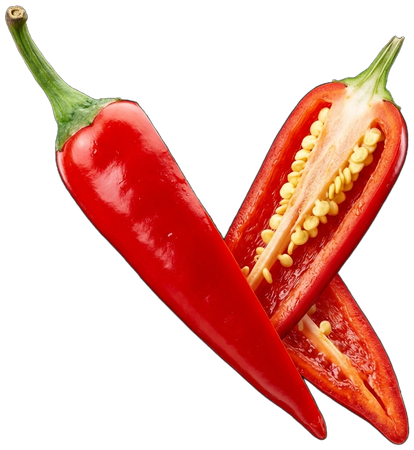
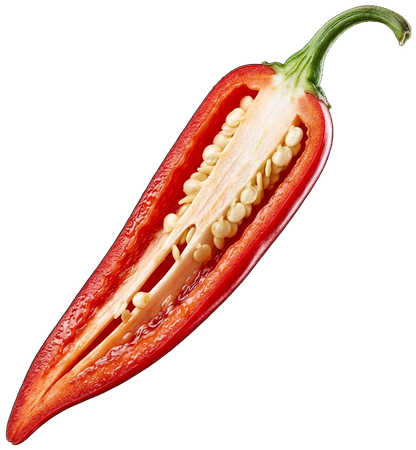
fix(hero): replace awkward V-shaped chili on right with clean single realistic sliced chili pepper, balance position near D

diff --git a/src/config/hero-slides.ts b/src/config/hero-slides.ts
@@ -73,7 +73,7 @@ export const heroSlides: HeroSlide[] = [
     image: '/products/hero-redbull-ruby-pear.png',
     floatingElements: [
       { src: '/hero/chili-whole.png', alt: 'Piment rouge', depth: 0.9, initialX: '21%', initialY: '38%', size: 105, rotation: -16 },
-      { src: '/hero/chili-slice.png', alt: 'Piment coupé en deux', depth: 0.75, initialX: '83%', initialY: '28%', size: 110, rotation: 25 },
+      { src: '/hero/chili-slice.png', alt: 'Piment coupé en deux', depth: 0.75, initialX: '79%', initialY: '36%', size: 105, rotation: 20 },
       { src: '/hero/ice-cube-1.svg', alt: 'Glaçon', depth: 0.4, initialX: '20%', initialY: '68%', size: 55, rotation: 35 },
       { src: '/hero/ice-cube-2.svg', alt: 'Glaçon', depth: 0.8, initialX: '80%', initialY: '68%', size: 70, rotation: -28 },
       { src: '/hero/drop-1.svg', alt: 'Goutte', depth: 0.5, initialX: '27%', initialY: '18%', size: 38, rotation: 14 },
